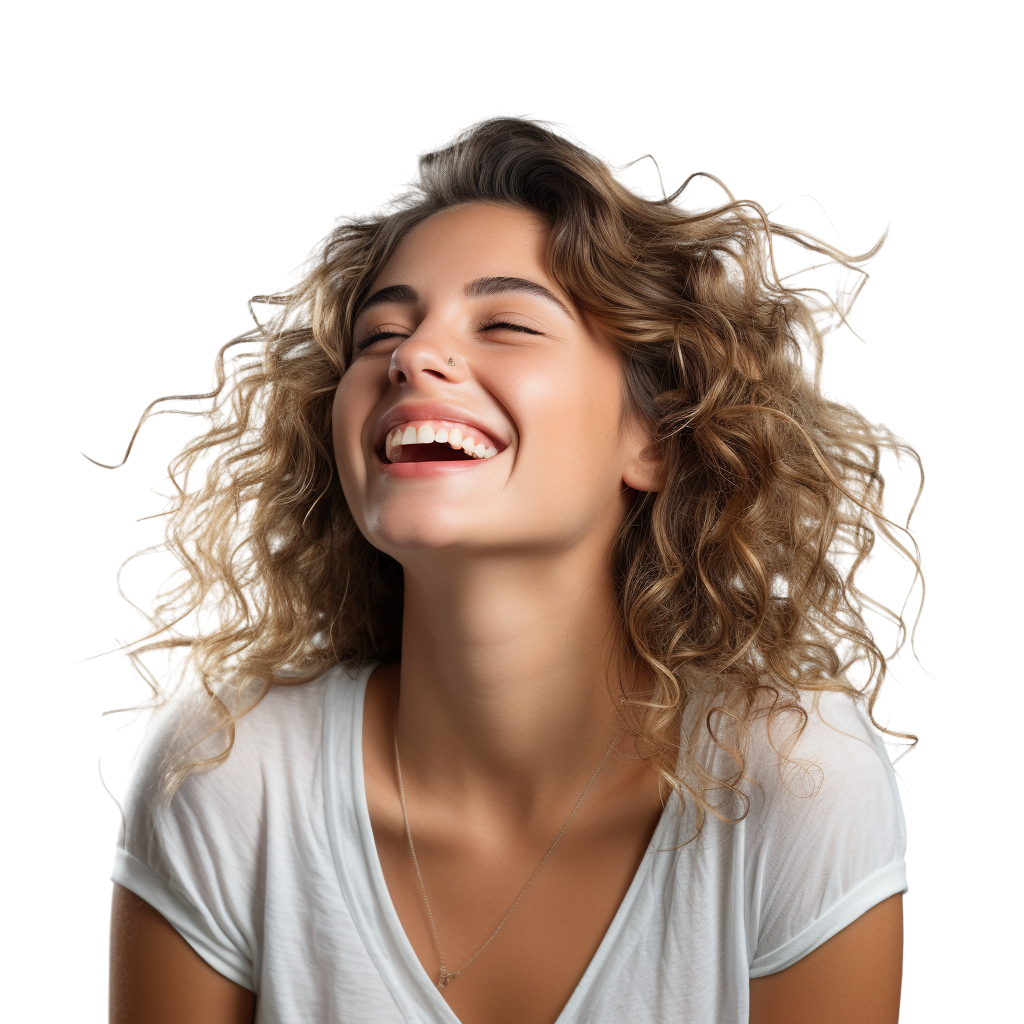
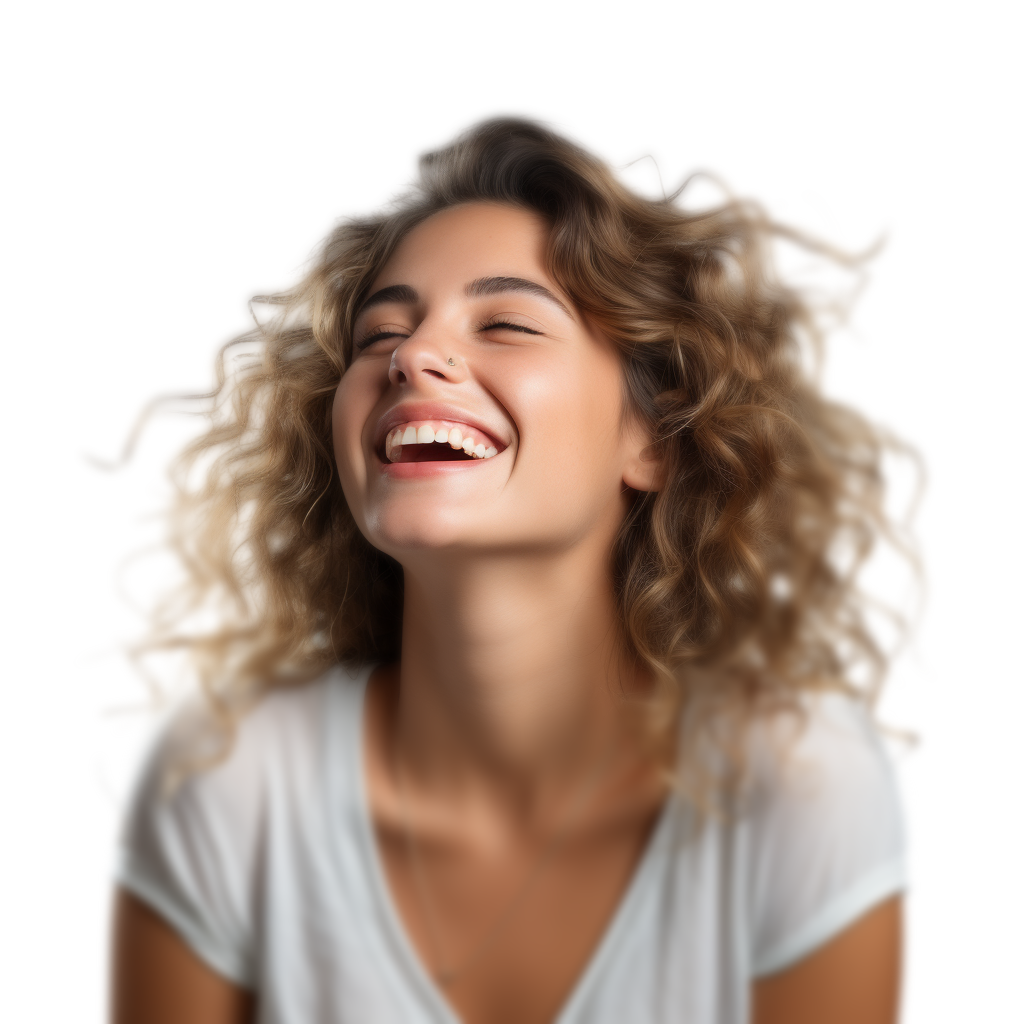
Atualização sobre

diff --git a/styles/style.css b/styles/style.css
@@ -1,8 +1,8 @@
 body {
     /* gradiente fundo */
 background: #141E30; 
-background: -webkit-linear-gradient(to left, #243B55, #141E30);
-background: linear-gradient(to left, #243B55, #141E30);
+background: -webkit-linear-gradient(to left, #141e28, #0a0f19);
+background: linear-gradient(to left, #141e28, #0a0f19);
 
     background-size: cover;
     background-attachment: fixed;
@@ -126,4 +126,60 @@ button {
     font-size: 30px;
     color: white;
     background-color: aquamarine;
+}
+
+
+/* teste */
+
+.box_sobre {
+    position: relative;
+    width: 100%;
+    height: 100vh;
+}
+
+.layer {
+    position: absolute;
+    top: 0;
+    left: 0;
+    width: 100%;
+    height: 100vh;
+    display: flex;
+    justify-content: center;
+    align-items: center;
+}
+
+.word {
+    color: white;
+    font-size: 18vw;
+    font-weight: 700;
+    display: flex;
+    justify-content: center;
+    align-items: flex-start;
+    text-align: center;
+    padding-top: 5%; /* Ajusta o espaço do topo */
+    opacity: 60%;
+    filter: blur(8px);
+    z-index: -1;
+}
+
+.image img {
+    width: auto;
+    height: 100vh;
+    object-fit: cover;
+    z-index: -0;
+}
+
+.text {
+    justify-content: center;
+    align-items: flex-end;
+    padding-bottom: 100px;
+}
+
+.text p {
+    backdrop-filter: blur(10px);
+    background-color: rgba(0, 0, 0, 0.5);
+    color: white;
+    padding: 10px;
+    border-radius: 5px;
+    font-size: 2em;
 }

diff --git a/sobre.html b/sobre.html
@@ -52,6 +52,17 @@
             <a href="faleconosco.html" style="--i:4;">Contato</a>
         </nav>
     </header>
+    <div class="box_sobre">
+        <div class="layer word">
+            <span>PROTEÇÃO</span>
+        </div>
+        <div class="layer image">
+            <img src="images/mulher_1.png" alt="Descrição da imagem">
+        </div>
+        <div class="layer text">
+            <p>Texto alinhado para baixo ao centro</p>
+        </div>
+    </div>
 </body>
 
 </html>
